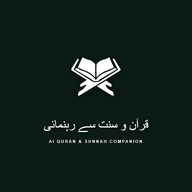
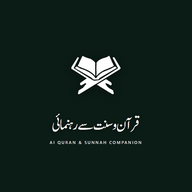
feat(typography): apply authentic Jameel Noori Nastaleeq Regular font to PWA splash and app tokens

Changed region(s): [[0.3438, 0.2812, 0.6562, 0.5], [0.2188, 0.5938, 0.7812, 0.6875], [0.25, 0.7188, 0.75, 0.75]]

diff --git a/src/styles.css b/src/styles.css
@@ -43,7 +43,7 @@
   --font-sans: "Plus Jakarta Sans", ui-sans-serif, system-ui, sans-serif;
   --font-serif: "Plus Jakarta Sans", ui-serif, Georgia, serif;
   --font-arabic: "Al Qalam Quran Majeed", "Amiri Quran", "KFGQPC Uthmanic Script HAFS", "Scheherazade New", "Amiri", "Noto Naskh Arabic", serif;
-  --font-urdu: "Noto Nastaliq Urdu", "Jameel Noori Nastaleeq", "Urdu Typesetting", serif;
+  --font-urdu: "Jameel Noori Nastaleeq", "Noto Nastaliq Urdu", "Urdu Typesetting", serif;
 
   --color-background: var(--background);
   --color-foreground: var(--foreground);

diff --git a/public/sw.js b/public/sw.js
@@ -1,5 +1,5 @@
 // Quran Companion AI - Service Worker
-const CACHE_NAME = "quran-companion-v5";
+const CACHE_NAME = "quran-companion-v6";
 const AUDIO_CACHE_NAME = "quran-audio-cache-v1";
 const DATA_CACHE_NAME = "quran-data-cache-v1";
 
